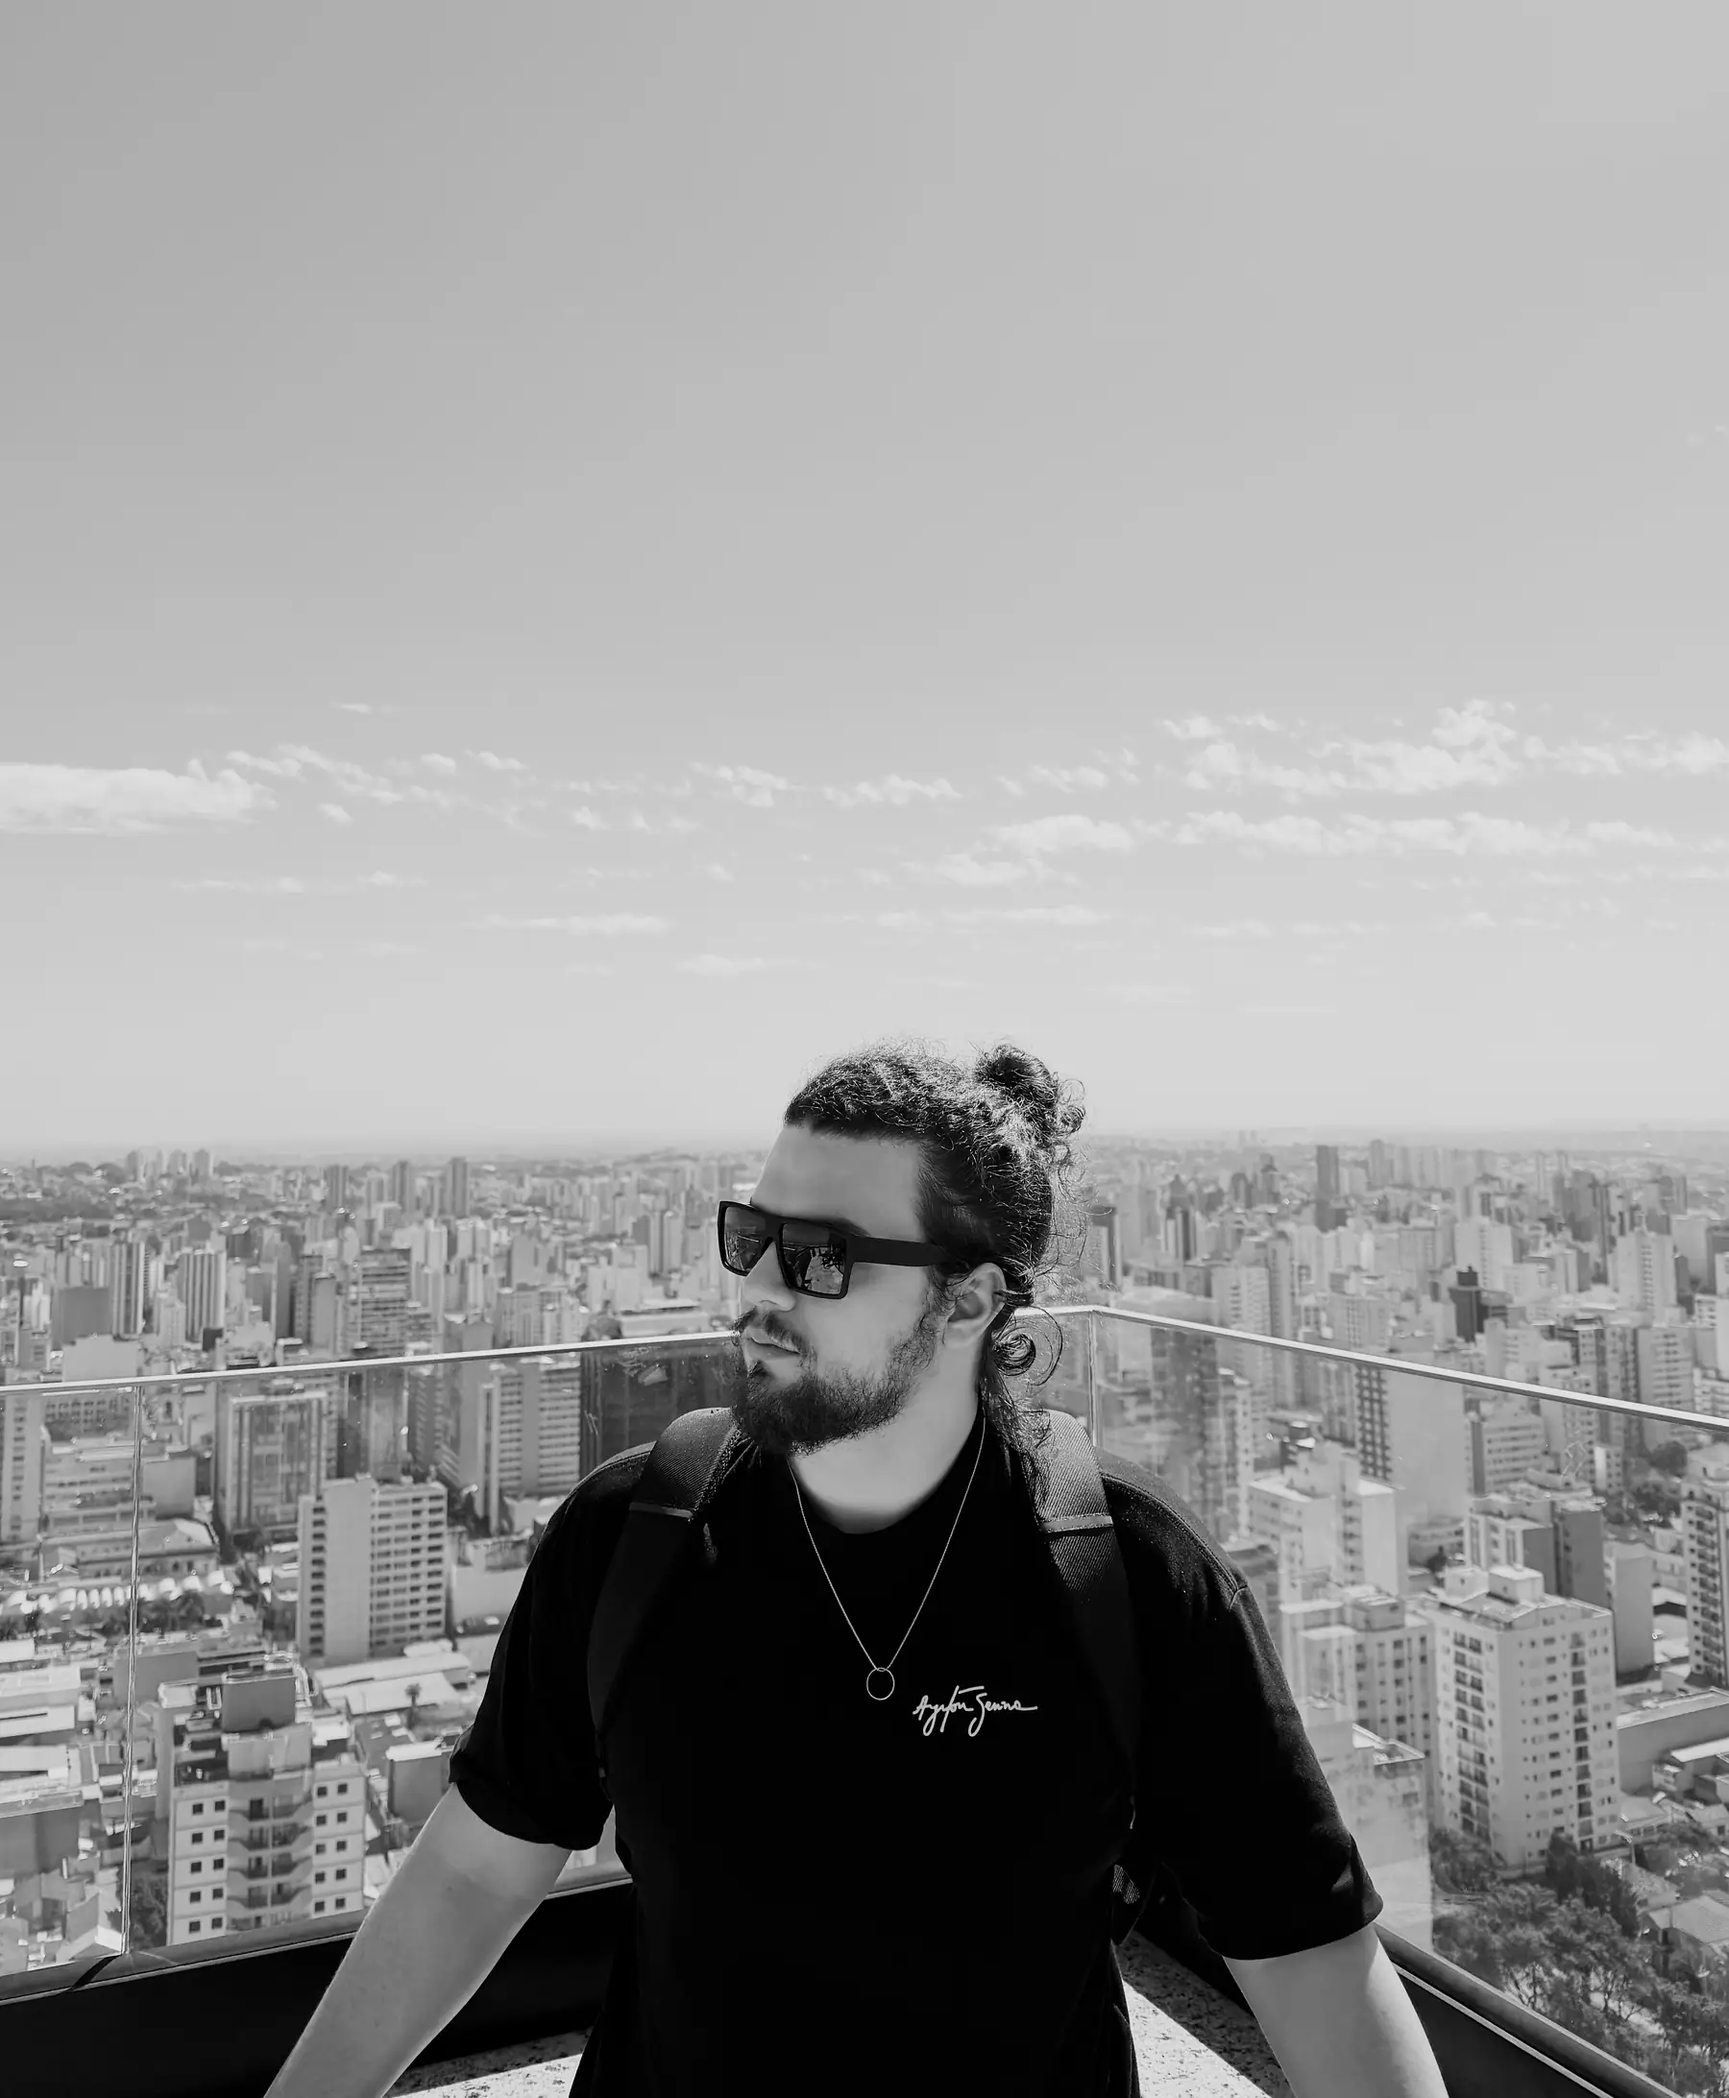
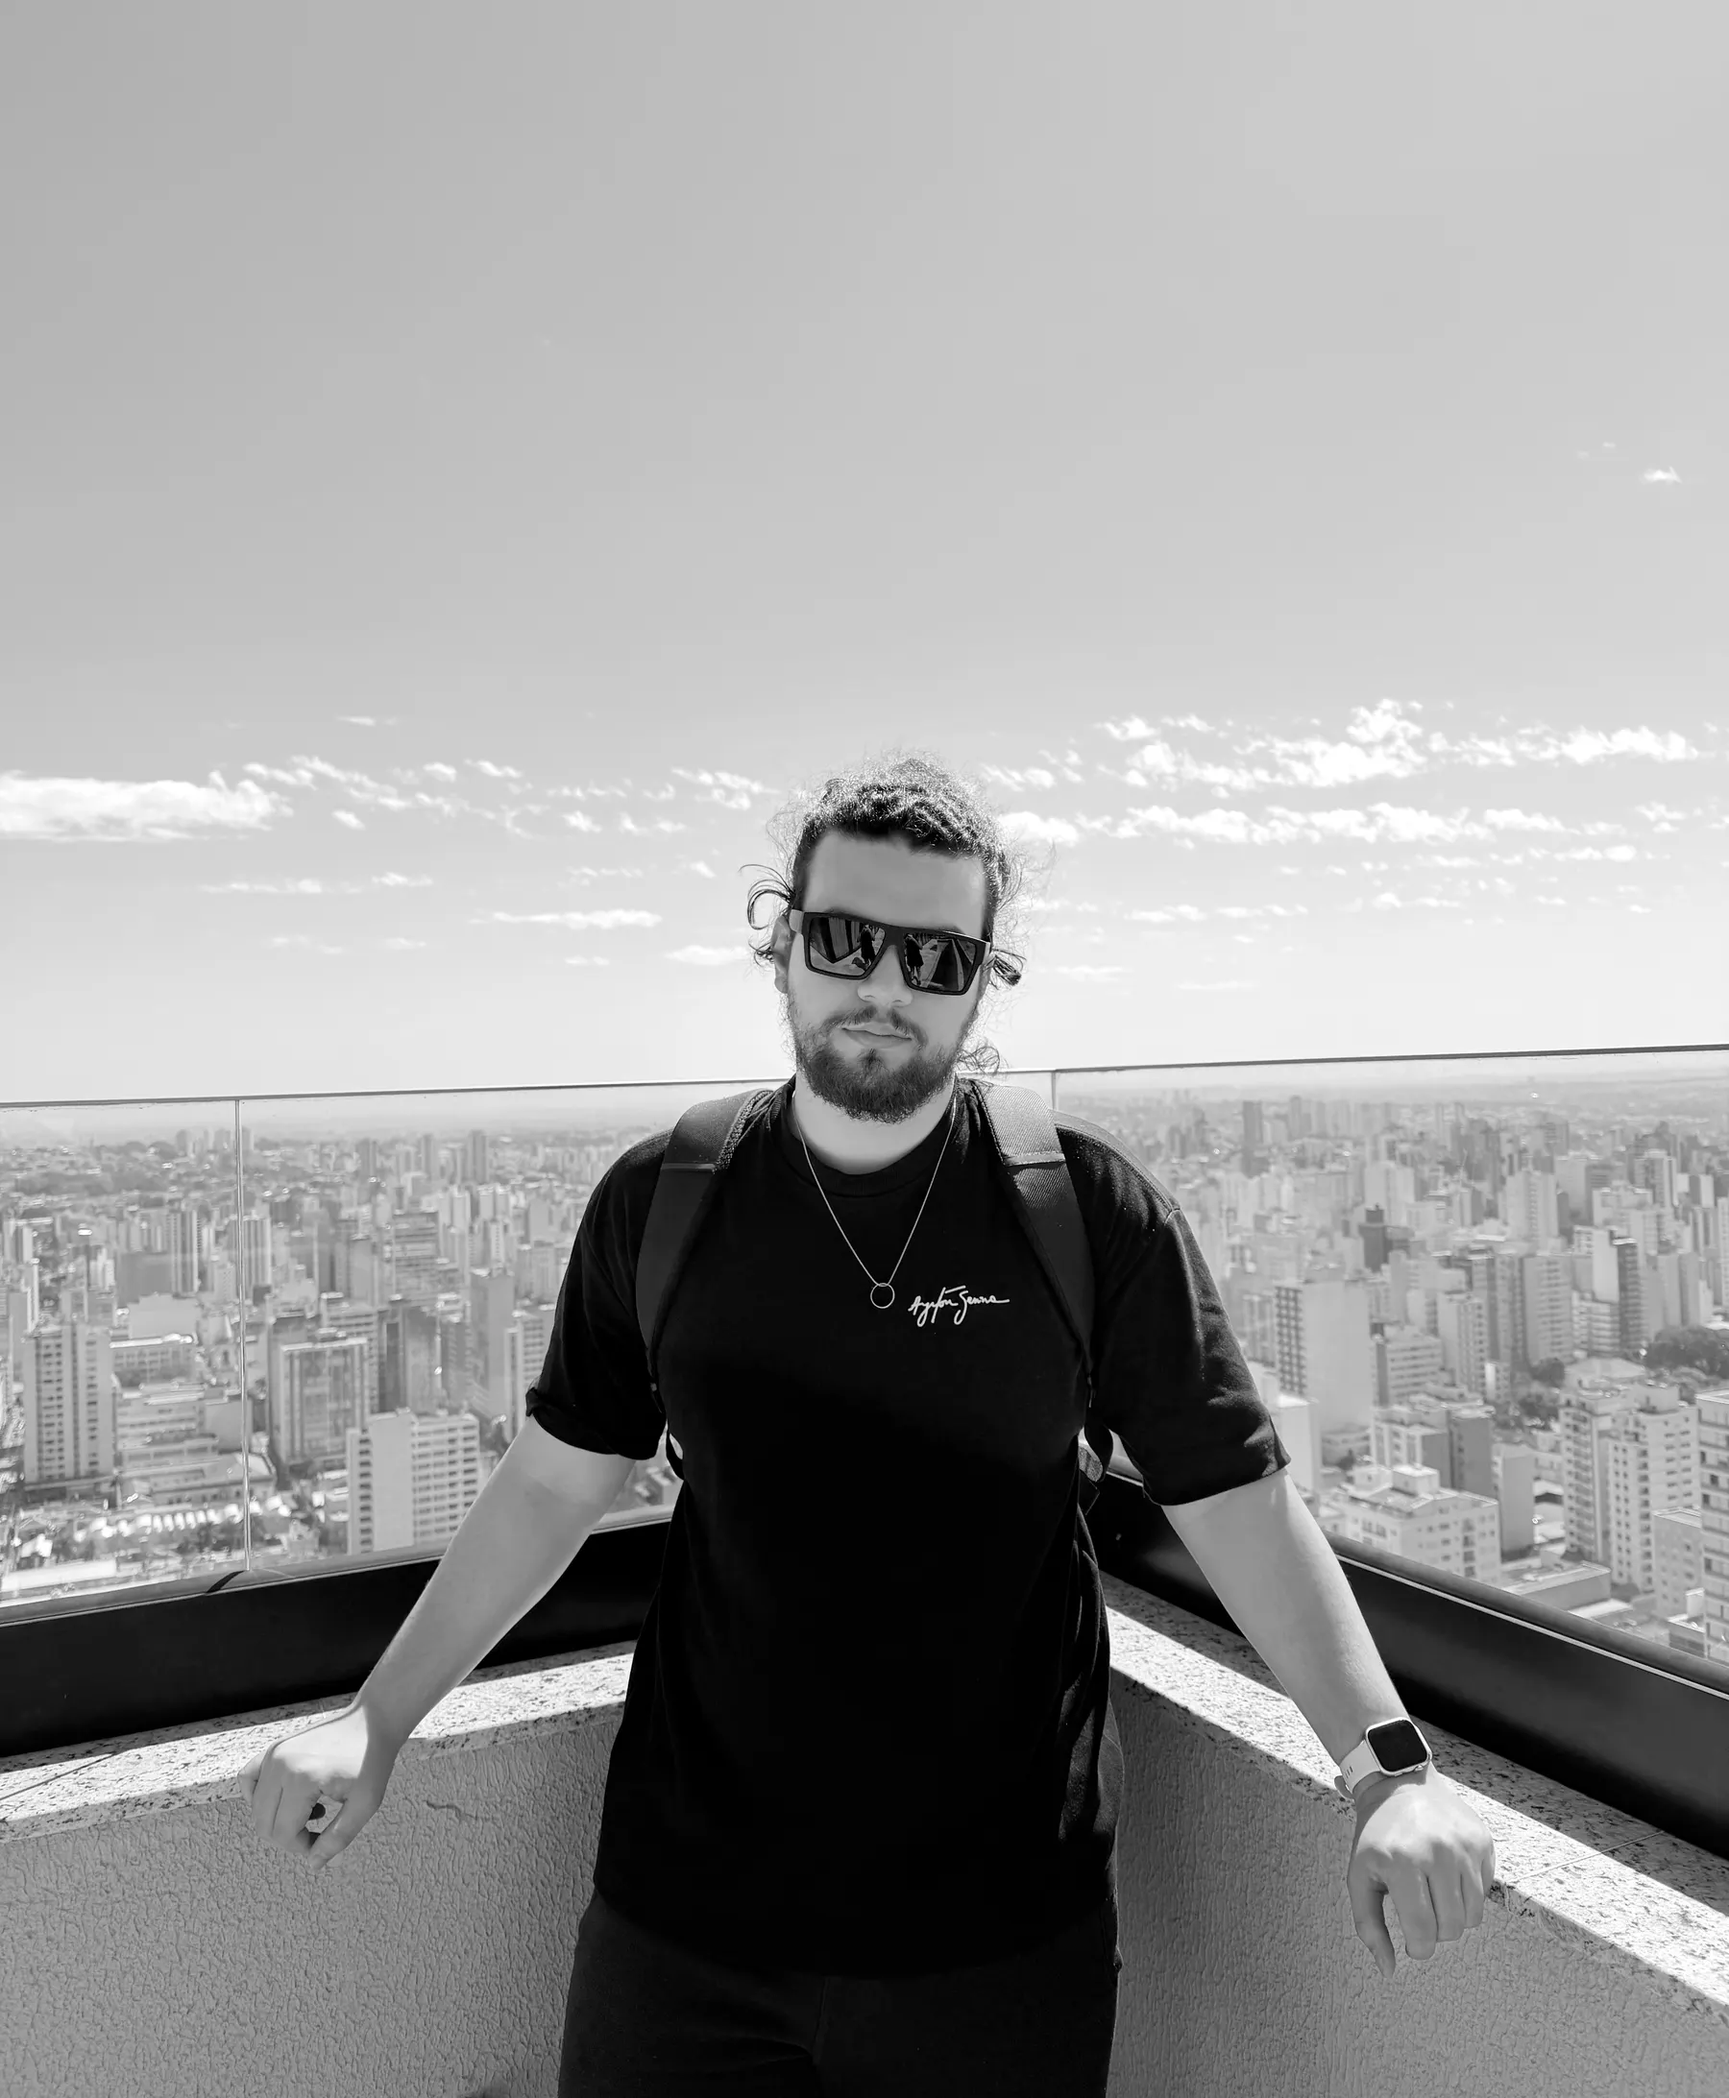
loop 040: fundo da história a partir da OBA e foto de frente no hero
O fundo e o destaque da história seguem o card ao lado do retrato, então a
trilha abre no céu da OBA. O hero passa a usar a foto de frente (cinza, cor e
recorte novos) e o Fale comigo volta para a foto de lado.

Claude-Session: https://claude.ai/code/session_01VsPyKxxCsBcQBFtVVxpovk

diff --git a/src/app/scenes/Story.tsx b/src/app/scenes/Story.tsx
@@ -196,43 +196,41 @@ function StoryRail({ progress }: { progress: Signal<number> }) {
       rail.style.visibility = p <= 0 ? "hidden" : "visible";
       const x = -distance.current * span(p, TRAVEL_FROM, TRAVEL_TO);
       // By where the chapters are, not by their index: a chapter steps out of
-      // the way once its left edge reaches the portrait, and the one in focus
-      // is the nearest to the middle of the space beside it. (Reads first,
+      // the way once its left edge reaches the portrait. (Reads first,
       // writes after: no layout is forced.)
       const ring = document.querySelector(".city-ring")?.getBoundingClientRect();
       const railLeft = rail.getBoundingClientRect().left;
       const edge = (ring && ring.width > 0 ? ring.right : railLeft) + 24;
-      const mid = (edge + window.innerWidth) / 2;
       const shift = railLeft + x + (1 - enter) * 80;
       let firstIn = spans.current.length;
-      let nearest = 0;
-      let best = Infinity;
       spans.current.forEach((c, i) => {
-        const left = shift + c.left;
-        if (left >= edge && firstIn === spans.current.length) firstIn = i;
-        const d = Math.abs(left + c.width / 2 - mid);
-        if (left >= edge && d < best) {
-          best = d;
-          nearest = i;
-        }
+        if (shift + c.left >= edge && firstIn === spans.current.length) firstIn = i;
       });
       track.style.transform = `translate3d(${x + (1 - enter) * 80}px, 0, 0)`;
-      // the backgrounds: each weighs by how near its chapter is to the middle,
-      // slides at a third of the cards' speed and settles as it comes in, so
-      // one turns into the next as the focus moves
+      // the backgrounds follow the cards, measured from the portrait: a
+      // chapter's background is all there while its card is the first one
+      // beside the portrait, and it has turned into the next one's by the
+      // time the card slips behind (the first card starts at the portrait,
+      // so OBA's sky is the opening). They slide at a third of the cards'
+      // speed and settle as they come in; the last one lands with the end.
       const step = spans.current.length > 1 ? spans.current[1].left - spans.current[0].left : window.innerWidth / 3;
-      spans.current.forEach((c, i) => {
-        const el = bgRefs.current[i];
+      const lead = spans.current.length ? railLeft + spans.current[0].left - edge : 0;
+      const geo = (-x - lead) / step + 0.5;
+      const at = Math.min(STORY.length - 1, Math.max(0, geo, span(p, TRAVEL_FROM, TRAVEL_TO) * (STORY.length - 1)));
+      bgRefs.current.forEach((el, i) => {
         if (!el) return;
-        const off = shift + c.left + c.width / 2 - mid;
-        const w = Math.max(0, 1 - Math.abs(off) / step);
+        const off = (i - at) * step;
+        // a plateau, then the morph in the middle half of the way
+        const w = Math.min(1, Math.max(0, 1.5 - 2 * Math.abs(i - at)));
         el.style.opacity = (w * enter).toFixed(3);
         el.style.transform = `translate3d(${(off * 0.3).toFixed(1)}px, 0, 0) scale(${(1.08 - 0.08 * w).toFixed(4)})`;
       });
       // before anything is laid out (or with no layout at all) the index rules
       if (spans.current.some((c) => c.width > 0)) {
         setPast(firstIn);
-        setFocus(nearest);
+        // the card in focus is the one whose background is up, unless it
+        // has already slid behind the portrait
+        setFocus(Math.min(STORY.length - 1, Math.max(firstIn, Math.round(at))));
       } else {
         const i = chapterAt(span(p, TRAVEL_FROM, TRAVEL_TO), STORY.length);
         setPast(i);

diff --git a/src/app/journey/contents.ts b/src/app/journey/contents.ts
@@ -43,21 +43,22 @@ const OFFLINE: FrameContent = {
 };
 
 /**
- * Retorno: Felipe on the rooftop of the opening, now facing the visitor (his
- * own photo, chosen 2026-11-26: the hero's looks aside). The shot starts on
- * his face and eases back as the frame moves aside to rest beside the
- * invitation. EXIF and location stripped on export.
+ * Retorno: Felipe on the rooftop of the opening, now looking aside over the
+ * city (his own photo; the hero has the one facing the visitor, swapped on
+ * 2026-11-26). The shot starts on his face and eases back as the frame moves
+ * aside to rest beside the invitation. EXIF and location stripped on export.
  */
-// on the face: at scale 1.45 a half-height of 0.345 of the photo shows
-const CITY_FROM = { s: 1.45, fx: 0.51, fy: 0.36 };
+// on the face: at scale 1.45 a half-height of 0.345 of the photo shows, so
+// the face (at 0.26 of the height) is framed as high as the edge allows
+const CITY_FROM = { s: 1.45, fx: 0.53, fy: 0.35 };
 // and it settles a little closer than the whole photo, him in the middle of
 // the framed photo that rests beside the invitation
 const CITY_TO = { s: 1.06, fx: 0.5, fy: 0.48 };
 const ease = (v: number) => (v < 0.5 ? 4 * v * v * v : 1 - (-2 * v + 2) ** 3 / 2);
 const CITY: FrameContent = {
   id: "city",
-  image: { src: "/assets/profile/talk-front-1200.webp", srcSet: "/assets/profile/talk-front-1200.webp 1200w, /assets/profile/talk-front-2400.webp 2400w" },
-  blur: "/assets/profile/talk-front-blur.webp",
+  image: { src: "/assets/profile/talk-side-1200.webp", srcSet: "/assets/profile/talk-side-1200.webp 1200w, /assets/profile/talk-side-2400.webp 2400w" },
+  blur: "/assets/profile/talk-side-blur.webp",
   drift: (t) => {
     const e = ease(Math.min(1, Math.max(0, (t - 0.08) / 0.62)));
     const s = Math.pow(CITY_FROM.s, 1 - e) * Math.pow(CITY_TO.s, e);

diff --git a/src/app/components/hero/camera.ts b/src/app/components/hero/camera.ts
@@ -28,11 +28,12 @@ export const SHOT_WIDE: Shot = {
   matte: "/assets/profile/scene-wide-matte.webp",
   width: 3400,
   height: 2125,
-  face: { x: 1790, y: 543 },
-  // Lower left of the frame: the near blocks, which the phone photographed
-  // sharp. The distant skyline is haze in the original, and no upscaling
+  // Facing the camera (his photo 42EEEC6B, chosen 2026-11-26).
+  face: { x: 1743, y: 640 },
+  // Left of the frame, under the glass rail: the near blocks, clear of his
+  // arm. The distant skyline is haze in the original, and no upscaling
   // brings back detail that was never captured.
-  start: { x: 0, y: 1000, w: 1141, h: 900 },
+  start: { x: 0, y: 850, w: 918, h: 723 },
   end: () => ({ x: 0, y: 0, w: 3400, h: 2125 }),
 };
 
@@ -42,14 +43,14 @@ export const SHOT_TALL: Shot = {
   matte: "/assets/profile/scene-tall-matte.webp",
   width: 1800,
   height: 2185,
-  face: { x: 933, y: 1262 },
-  // Lower-left corner: blocks and the railing, clear of the arm.
-  start: { x: 0, y: 1075, w: 323, h: 1025 },
+  face: { x: 923, y: 1036 },
+  // Left edge: blocks under the railing, clear of the arm.
+  start: { x: 0, y: 1140, w: 330, h: 520 },
   // Centred on the person, head in the upper third.
   end: (vw, vh) => {
     const h = 1589;
     const w = (h * vw) / vh;
-    return { x: 826 - w / 2, y: 576, w, h };
+    return { x: 905 - w / 2, y: 353, w, h };
   },
 };
 

diff --git a/src/app/scenes/Talk.css b/src/app/scenes/Talk.css
@@ -251,7 +251,7 @@
 }
 
 .talk[data-mode="list"] {
-  background: #05070a url("/assets/profile/scene-wide-color.webp") center / cover no-repeat;
+  background: #05070a url("/assets/profile/talk-side-2400.webp") center / cover no-repeat;
 }
 
 @media (max-width: 767px) {
